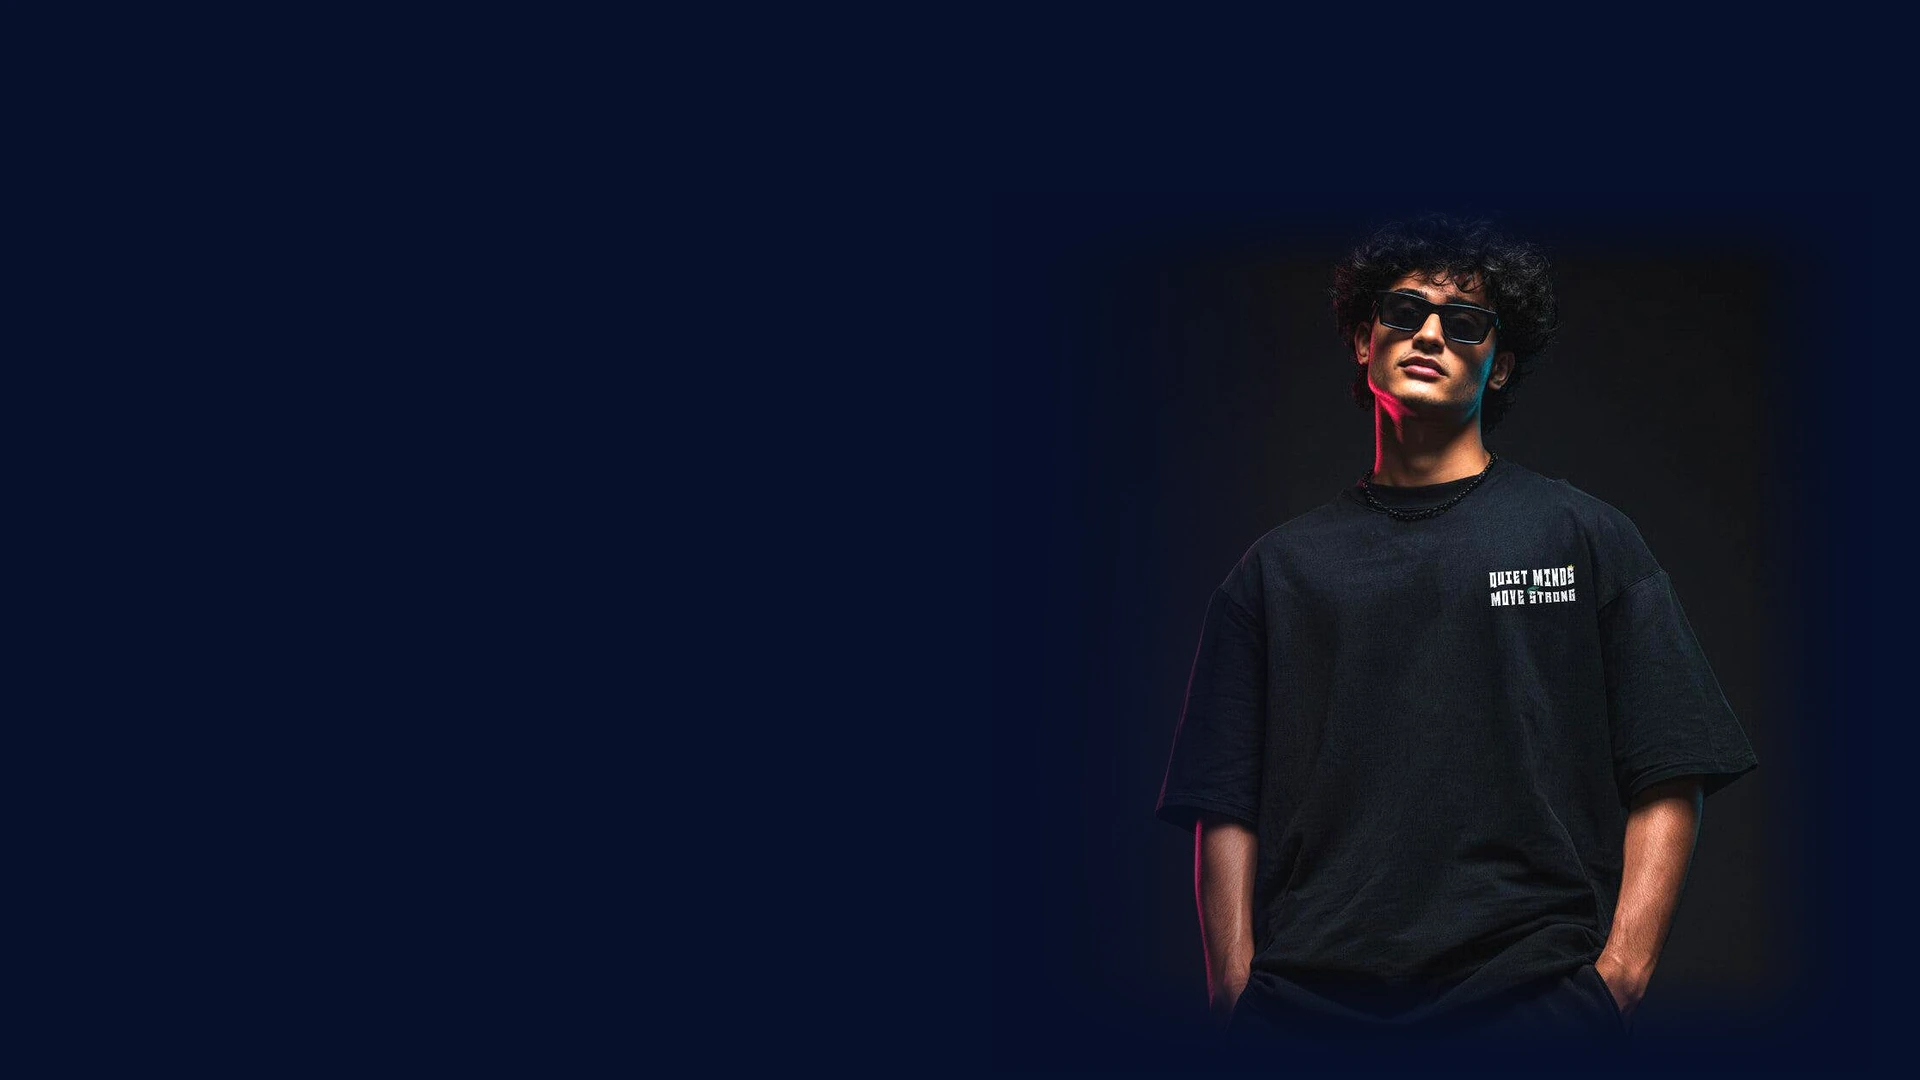
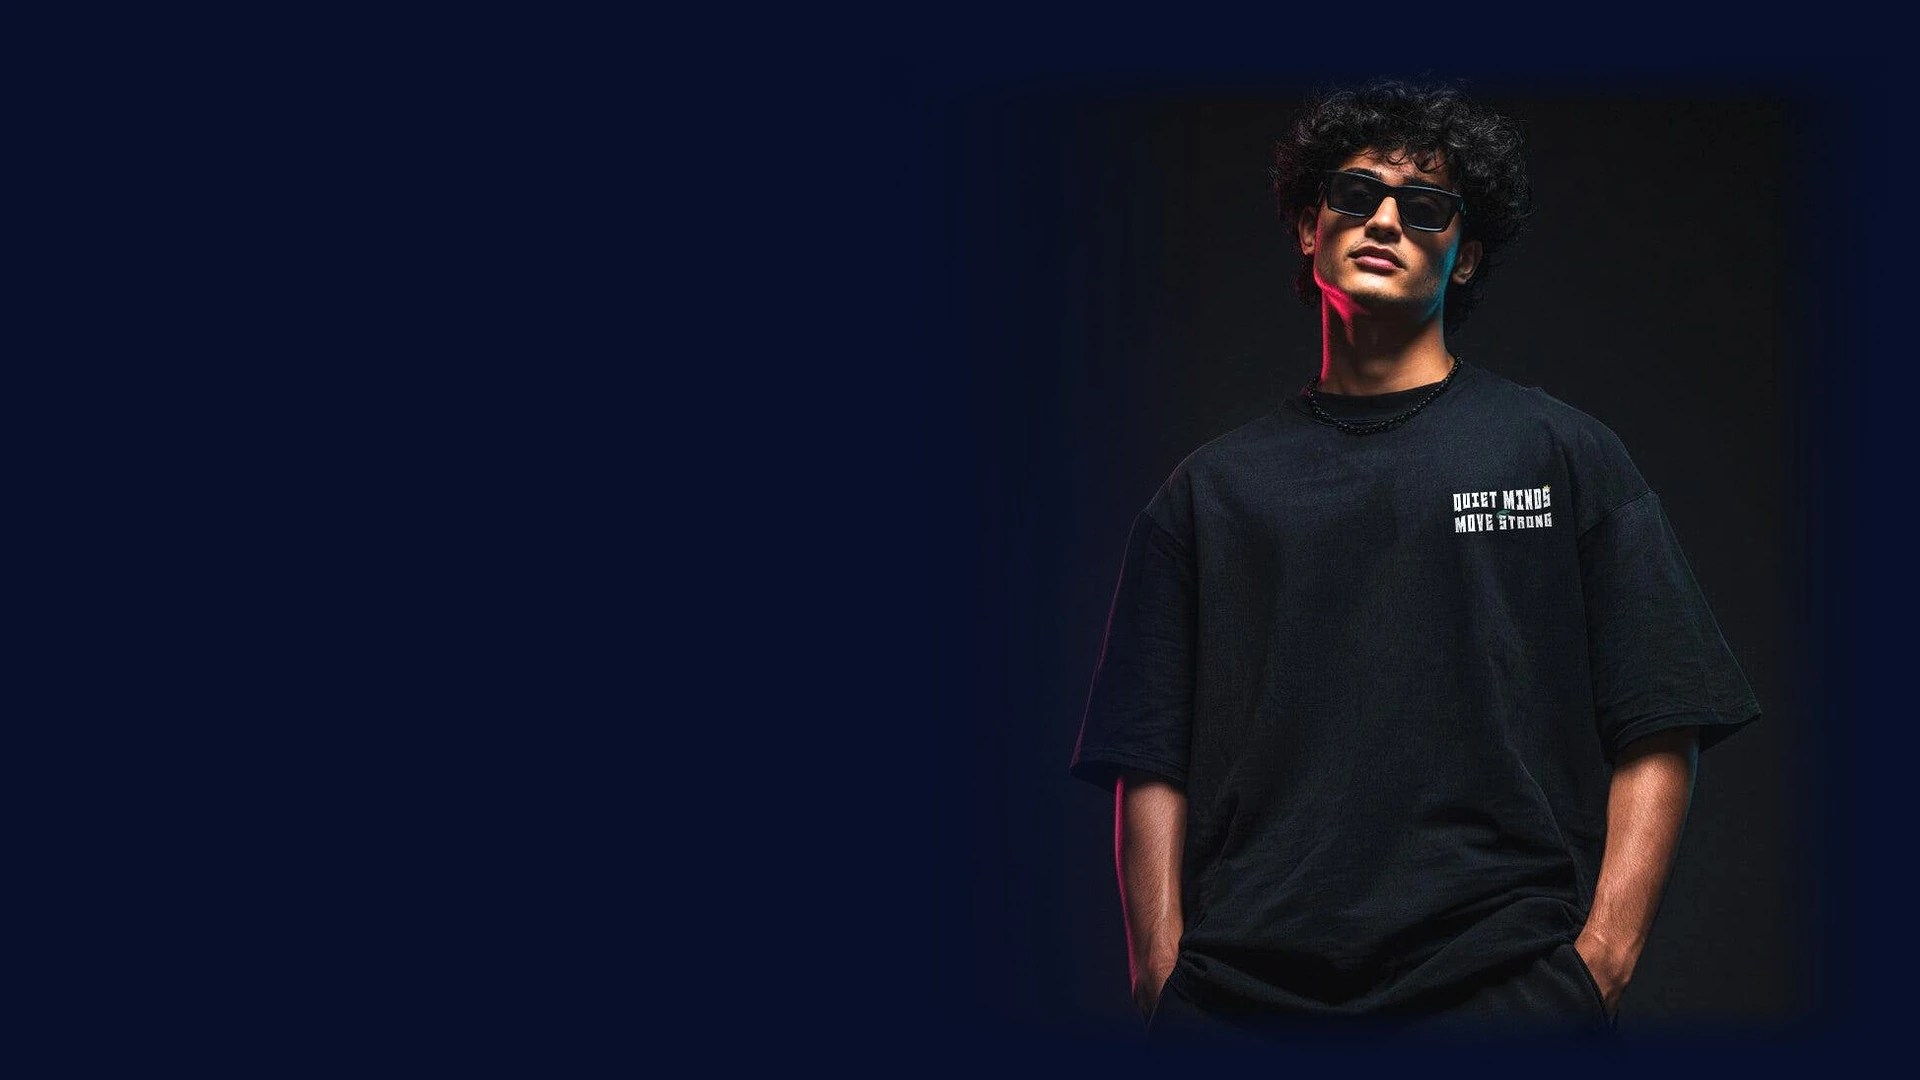
hero section vhange

diff --git a/src/components/home/HeroSection.tsx b/src/components/home/HeroSection.tsx
@@ -47,23 +47,23 @@ export default function HeroSection() {
                         sizes="100vw"
                         className="object-cover object-top"
                     />
-                    {/* Bottom-to-middle midnight navy gradient so headline and button sit on clean canvas */}
-                    <div className="absolute inset-0 bg-gradient-to-t from-[#070F2B] via-[#070F2B]/95 via-48% to-transparent pointer-events-none" />
+                    {/* Subtle bottom gradient only behind CTA button and headline - model's body remains 100% visible */}
+                    <div className="absolute inset-0 bg-gradient-to-t from-[#070F2B] via-[#070F2B]/80 via-28% to-transparent pointer-events-none" />
                     {/* Very subtle top scrim for navbar legibility without hiding model's face/hair */}
-                    <div className="absolute top-0 inset-x-0 h-16 bg-gradient-to-b from-[#070F2B]/40 to-transparent pointer-events-none" />
+                    <div className="absolute top-0 inset-x-0 h-14 bg-gradient-to-b from-[#070F2B]/35 to-transparent pointer-events-none" />
                 </div>
 
                 {/* Bottom Edge subtle blend into page */}
-                <div className="absolute bottom-0 inset-x-0 h-16 bg-gradient-to-t from-[#070F2B] to-transparent pointer-events-none" />
+                <div className="absolute bottom-0 inset-x-0 h-14 bg-gradient-to-t from-[#070F2B] to-transparent pointer-events-none" />
             </div>
 
             {/* 2. FOREGROUND EDITORIAL CONTENT */}
             {/* Responsive padding: mobile starts with space for fixed header, desktop has generous breathing room */}
-            <div className="relative z-20 w-full max-w-7xl mx-auto px-5 sm:px-10 lg:px-16 pt-20 sm:pt-24 lg:pt-28 pb-5 sm:pb-8 flex flex-col justify-between h-full">
+            <div className="relative z-20 w-full max-w-7xl mx-auto px-5 sm:px-10 lg:px-16 pt-16 sm:pt-24 lg:pt-28 pb-4 sm:pb-8 flex flex-col justify-between h-full">
                 
                 {/* Top Subtle Status Tag */}
                 <div className="w-full flex items-center justify-between">
-                    <span className="text-[10px] sm:text-xs font-mono uppercase tracking-[0.25em] text-[#B5945B] font-semibold">
+                    <span className="text-[10px] sm:text-xs font-mono uppercase tracking-[0.25em] text-[#B5945B] font-semibold drop-shadow-sm">
                         NEW DROP 01 / 2026
                     </span>
                     <span className="hidden sm:inline-block text-[10px] sm:text-xs font-mono uppercase tracking-[0.25em] text-white/40">
@@ -73,15 +73,15 @@ export default function HeroSection() {
 
                 {/* Center / Lower Content Block */}
                 {/* On mobile: placed at bottom above the footer bar. On desktop: vertically centered on left. */}
-                <div className="mt-auto md:my-auto max-w-lg lg:max-w-xl pb-2 sm:pb-4 md:py-6">
+                <div className="mt-auto md:my-auto max-w-lg lg:max-w-xl pb-1 sm:pb-4 md:py-6">
                     {/* Main Headline */}
-                    <h1 className="font-black uppercase text-white tracking-tight leading-[0.96] text-3xl xs:text-4xl sm:text-5xl lg:text-[4rem] xl:text-[4.5rem] text-balance">
+                    <h1 className="font-black uppercase text-white tracking-tight leading-[0.96] text-3xl xs:text-4xl sm:text-5xl lg:text-[4rem] xl:text-[4.5rem] text-balance drop-shadow-[0_2px_12px_rgba(0,0,0,0.8)]">
                         NOT FOR EVERYONE.<br />
                         THAT&apos;S THE POINT.
                     </h1>
 
                     {/* Supporting Line */}
-                    <p className="mt-2.5 sm:mt-3.5 text-xs sm:text-sm md:text-base text-white/70 font-normal leading-relaxed max-w-sm">
+                    <p className="mt-2.5 sm:mt-3.5 text-xs sm:text-sm md:text-base text-white/80 font-normal leading-relaxed max-w-sm drop-shadow-[0_1px_8px_rgba(0,0,0,0.8)]">
                         Independent streetwear. Made for your frequency.
                     </p>
 
